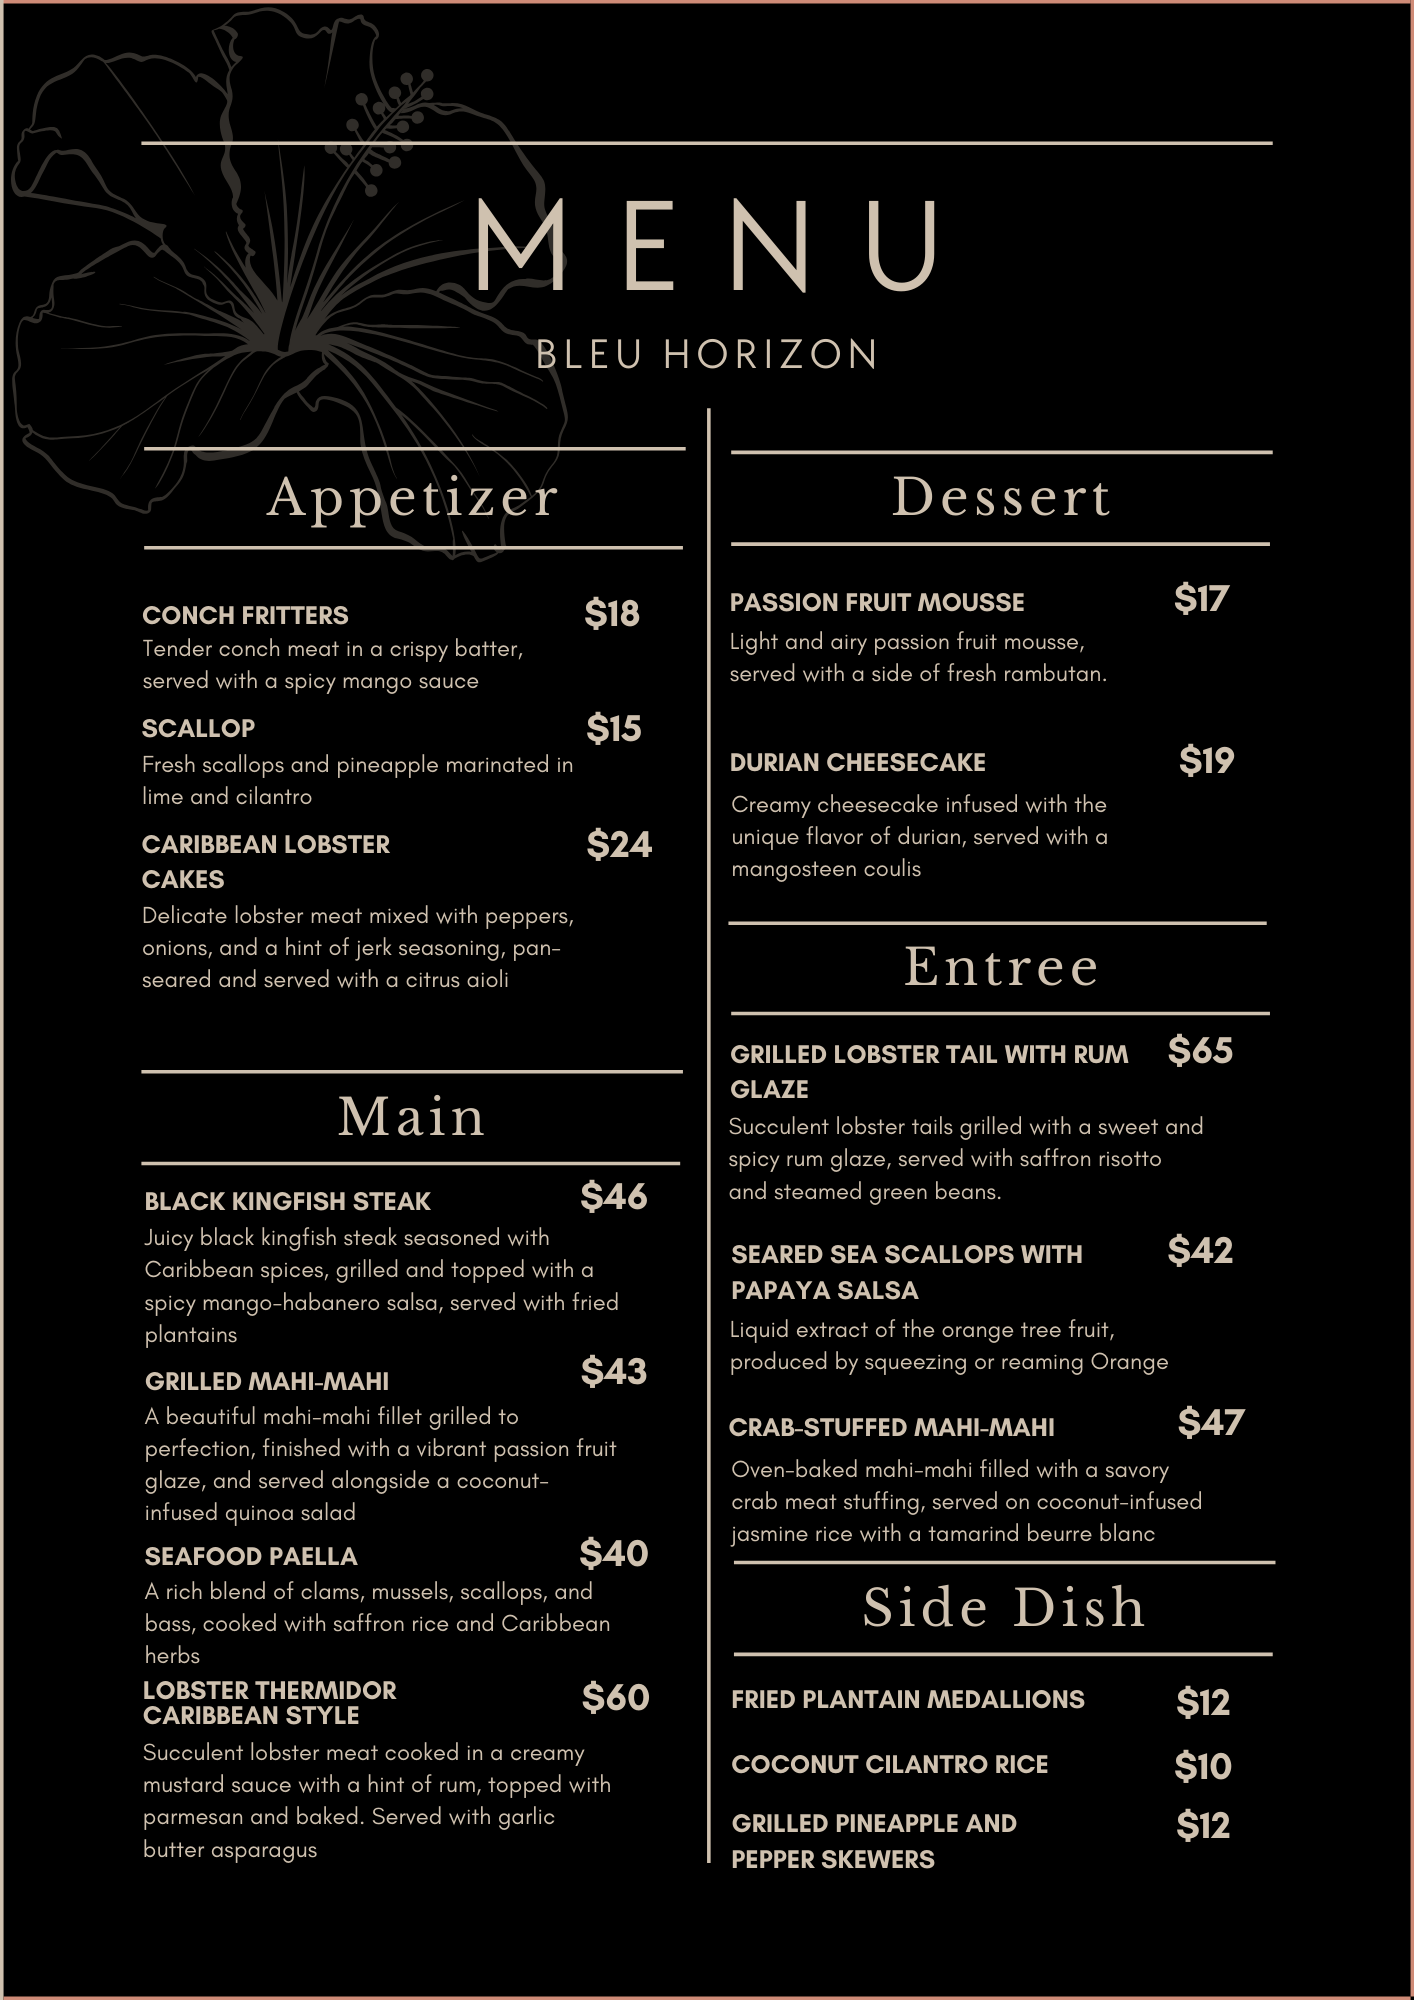
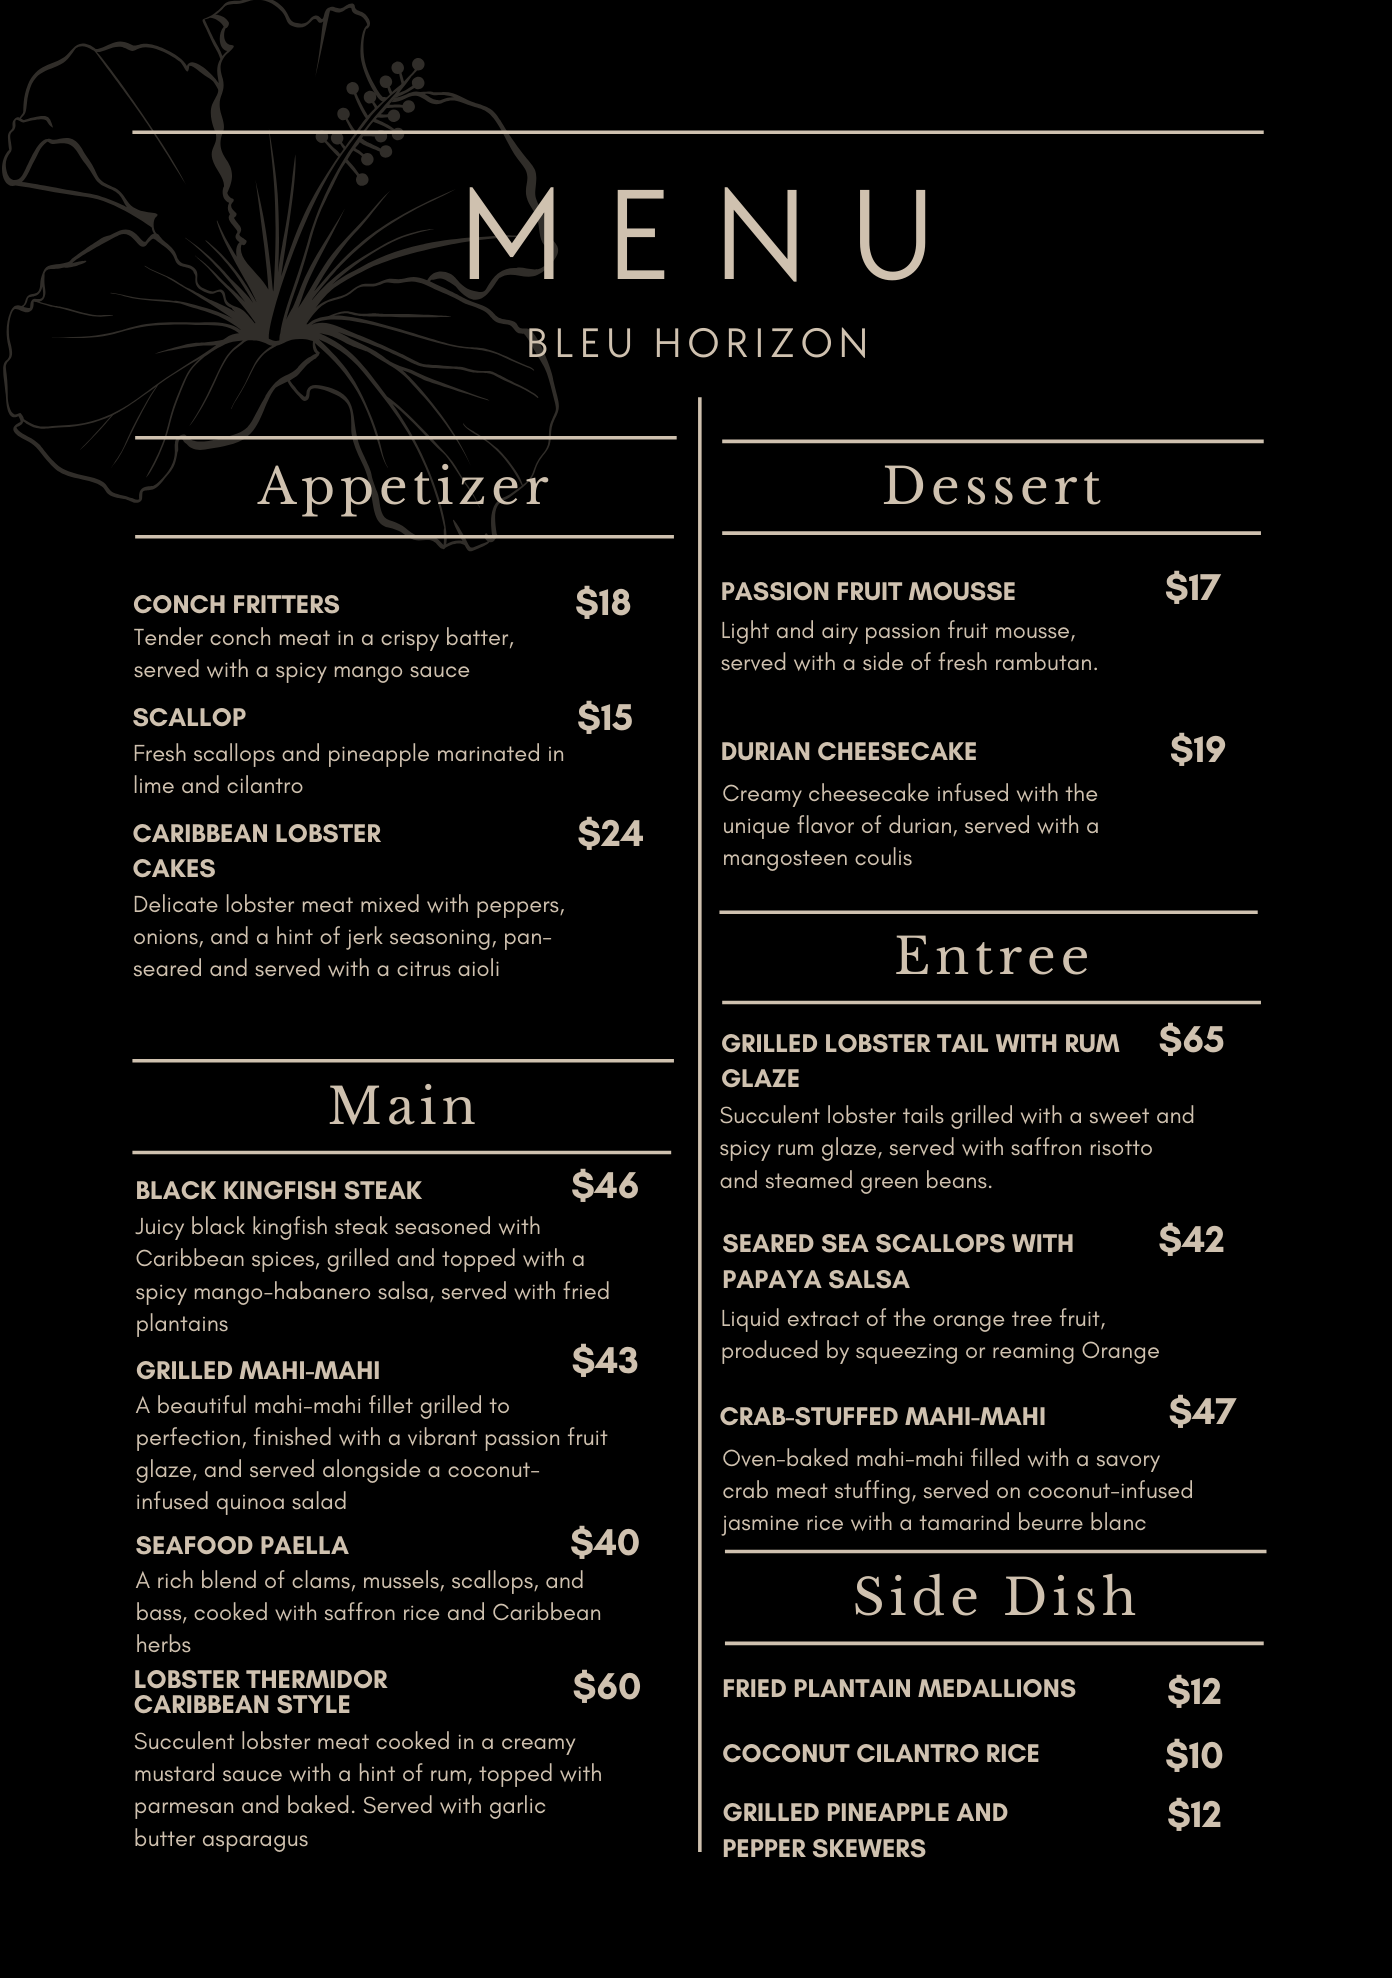
Change details

diff --git a/src/pages/MenuPage.tsx b/src/pages/MenuPage.tsx
@@ -1,5 +1,5 @@
 export const MenuPage = () => {
     return <div className="mt-16 px-10 py-20 bg-neutral-950">
-        <img src="src\assets\White Brown Restaurant Menu.png" alt="" />
+        <img className="block mx-auto max-w-full" src="src\assets\White Brown Restaurant Menu.png" alt="" />
     </div>
 }
